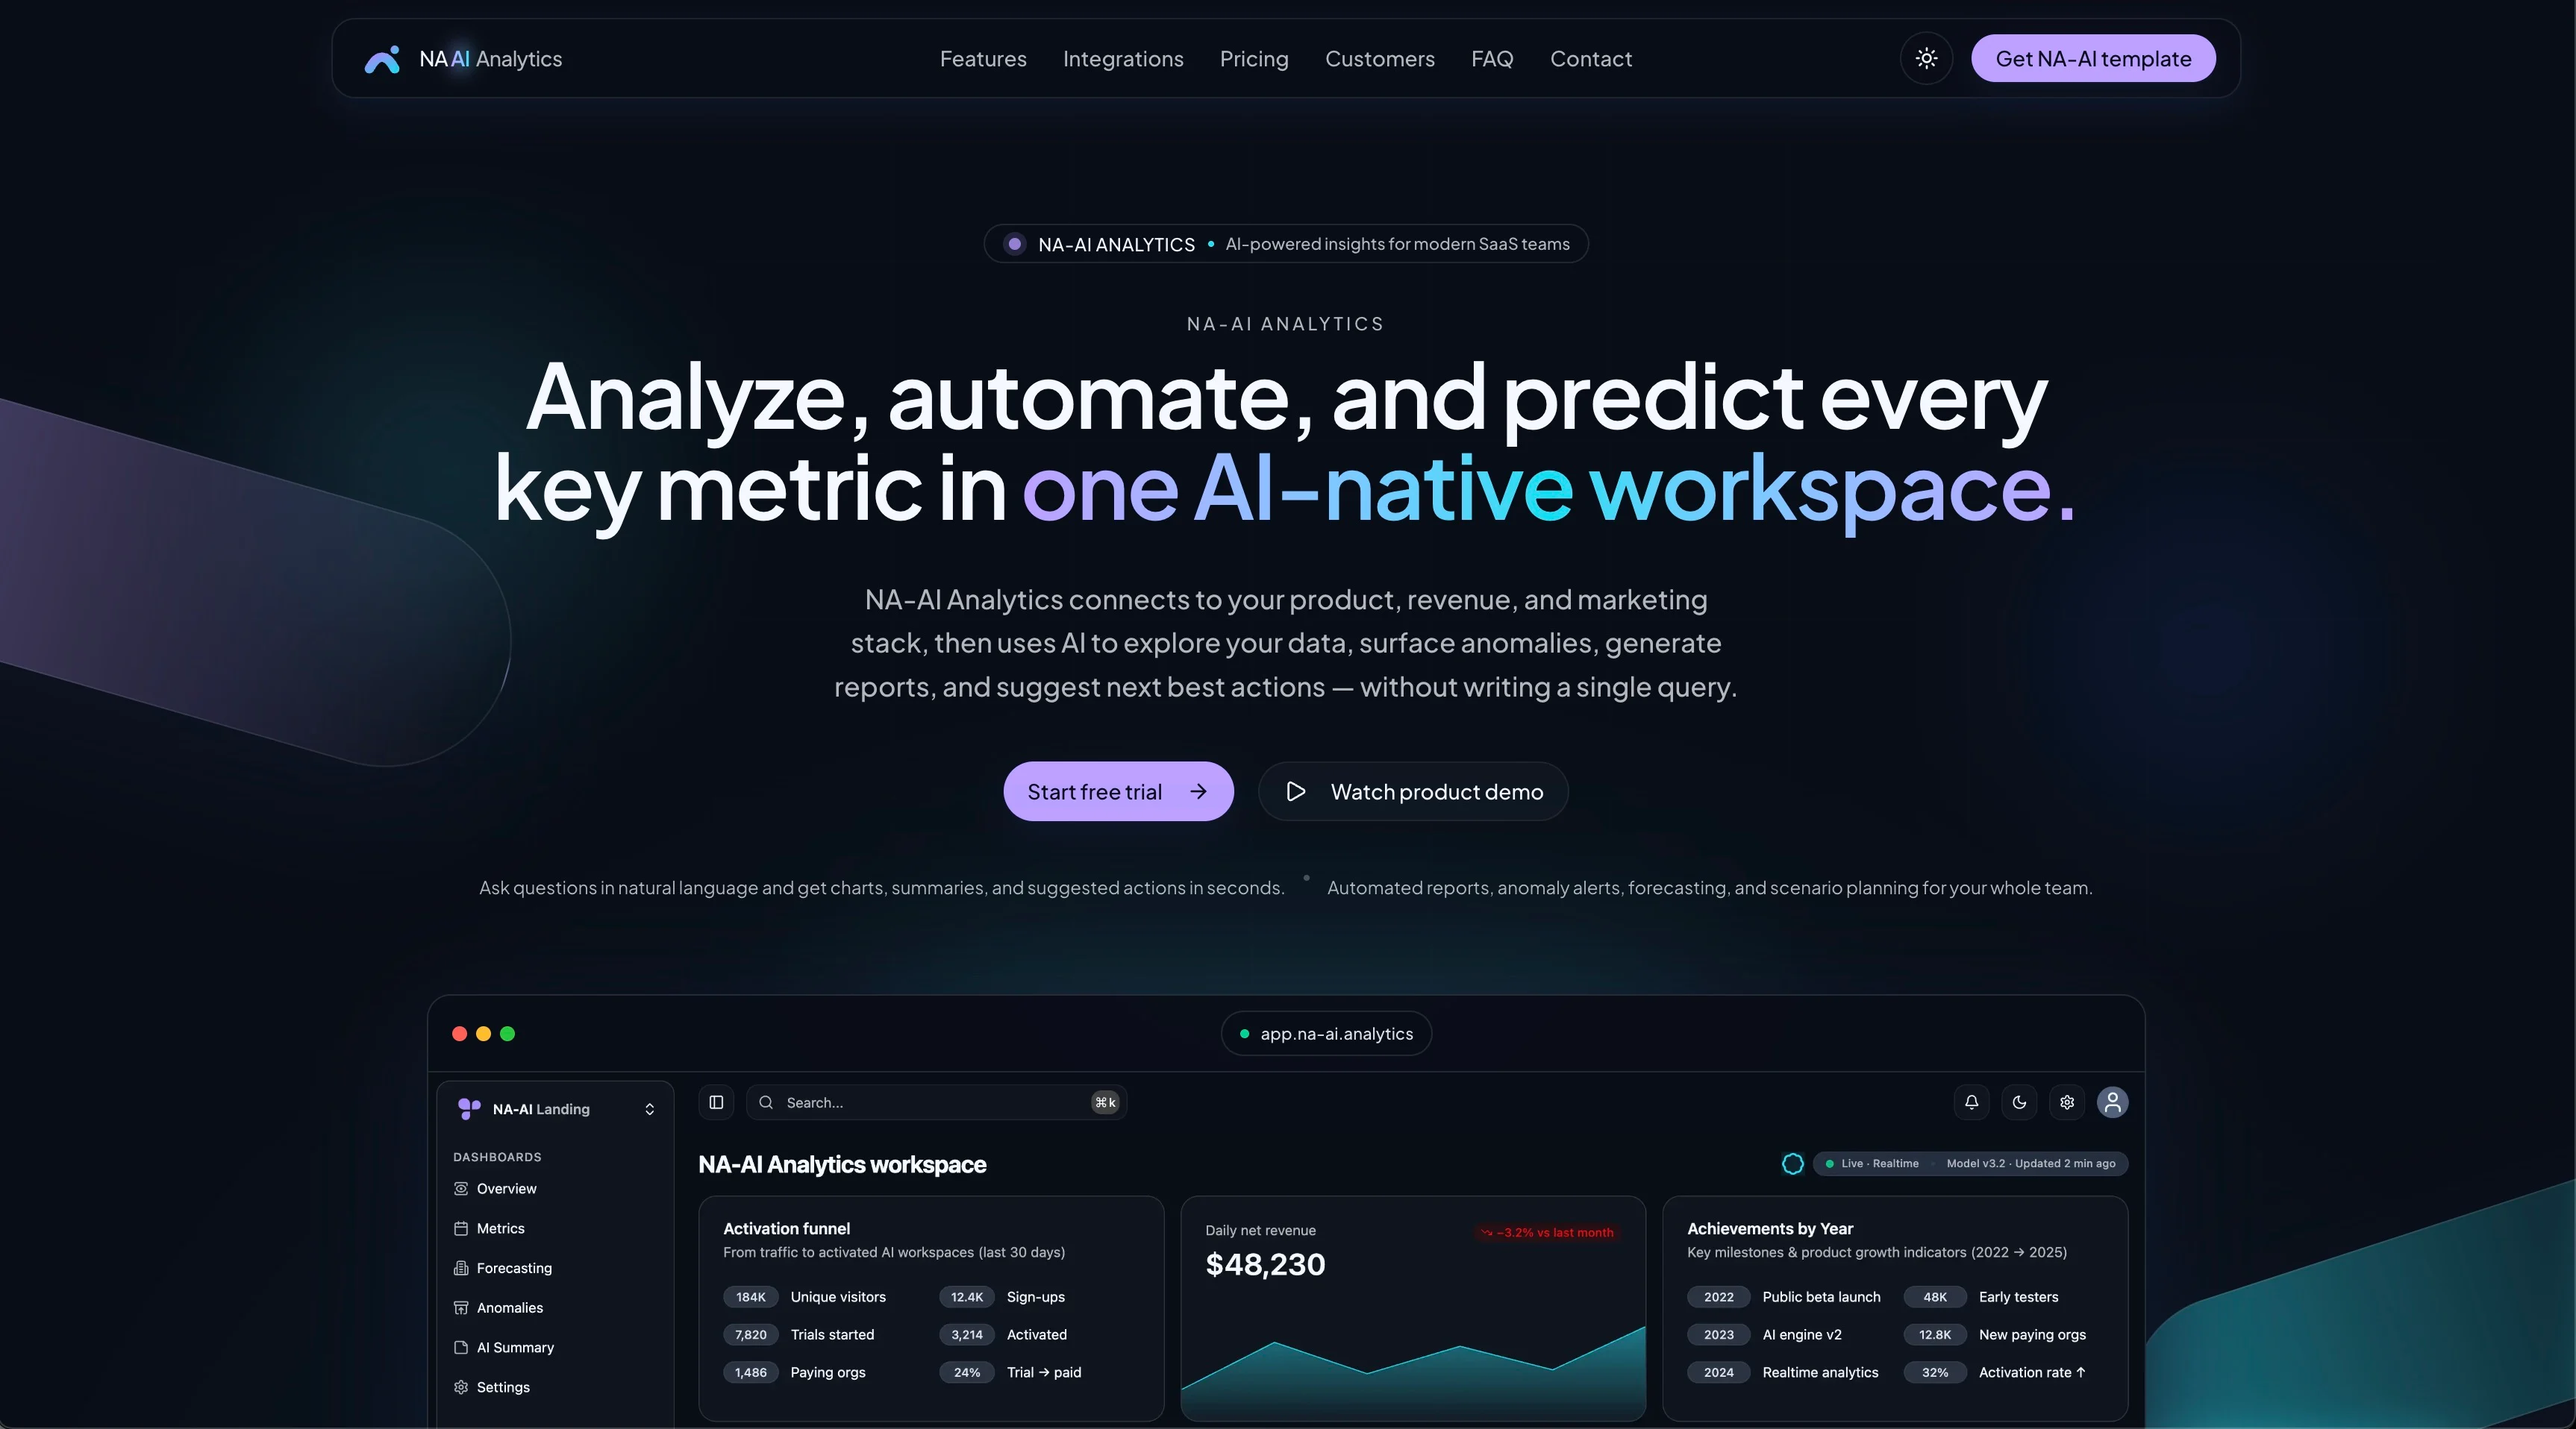
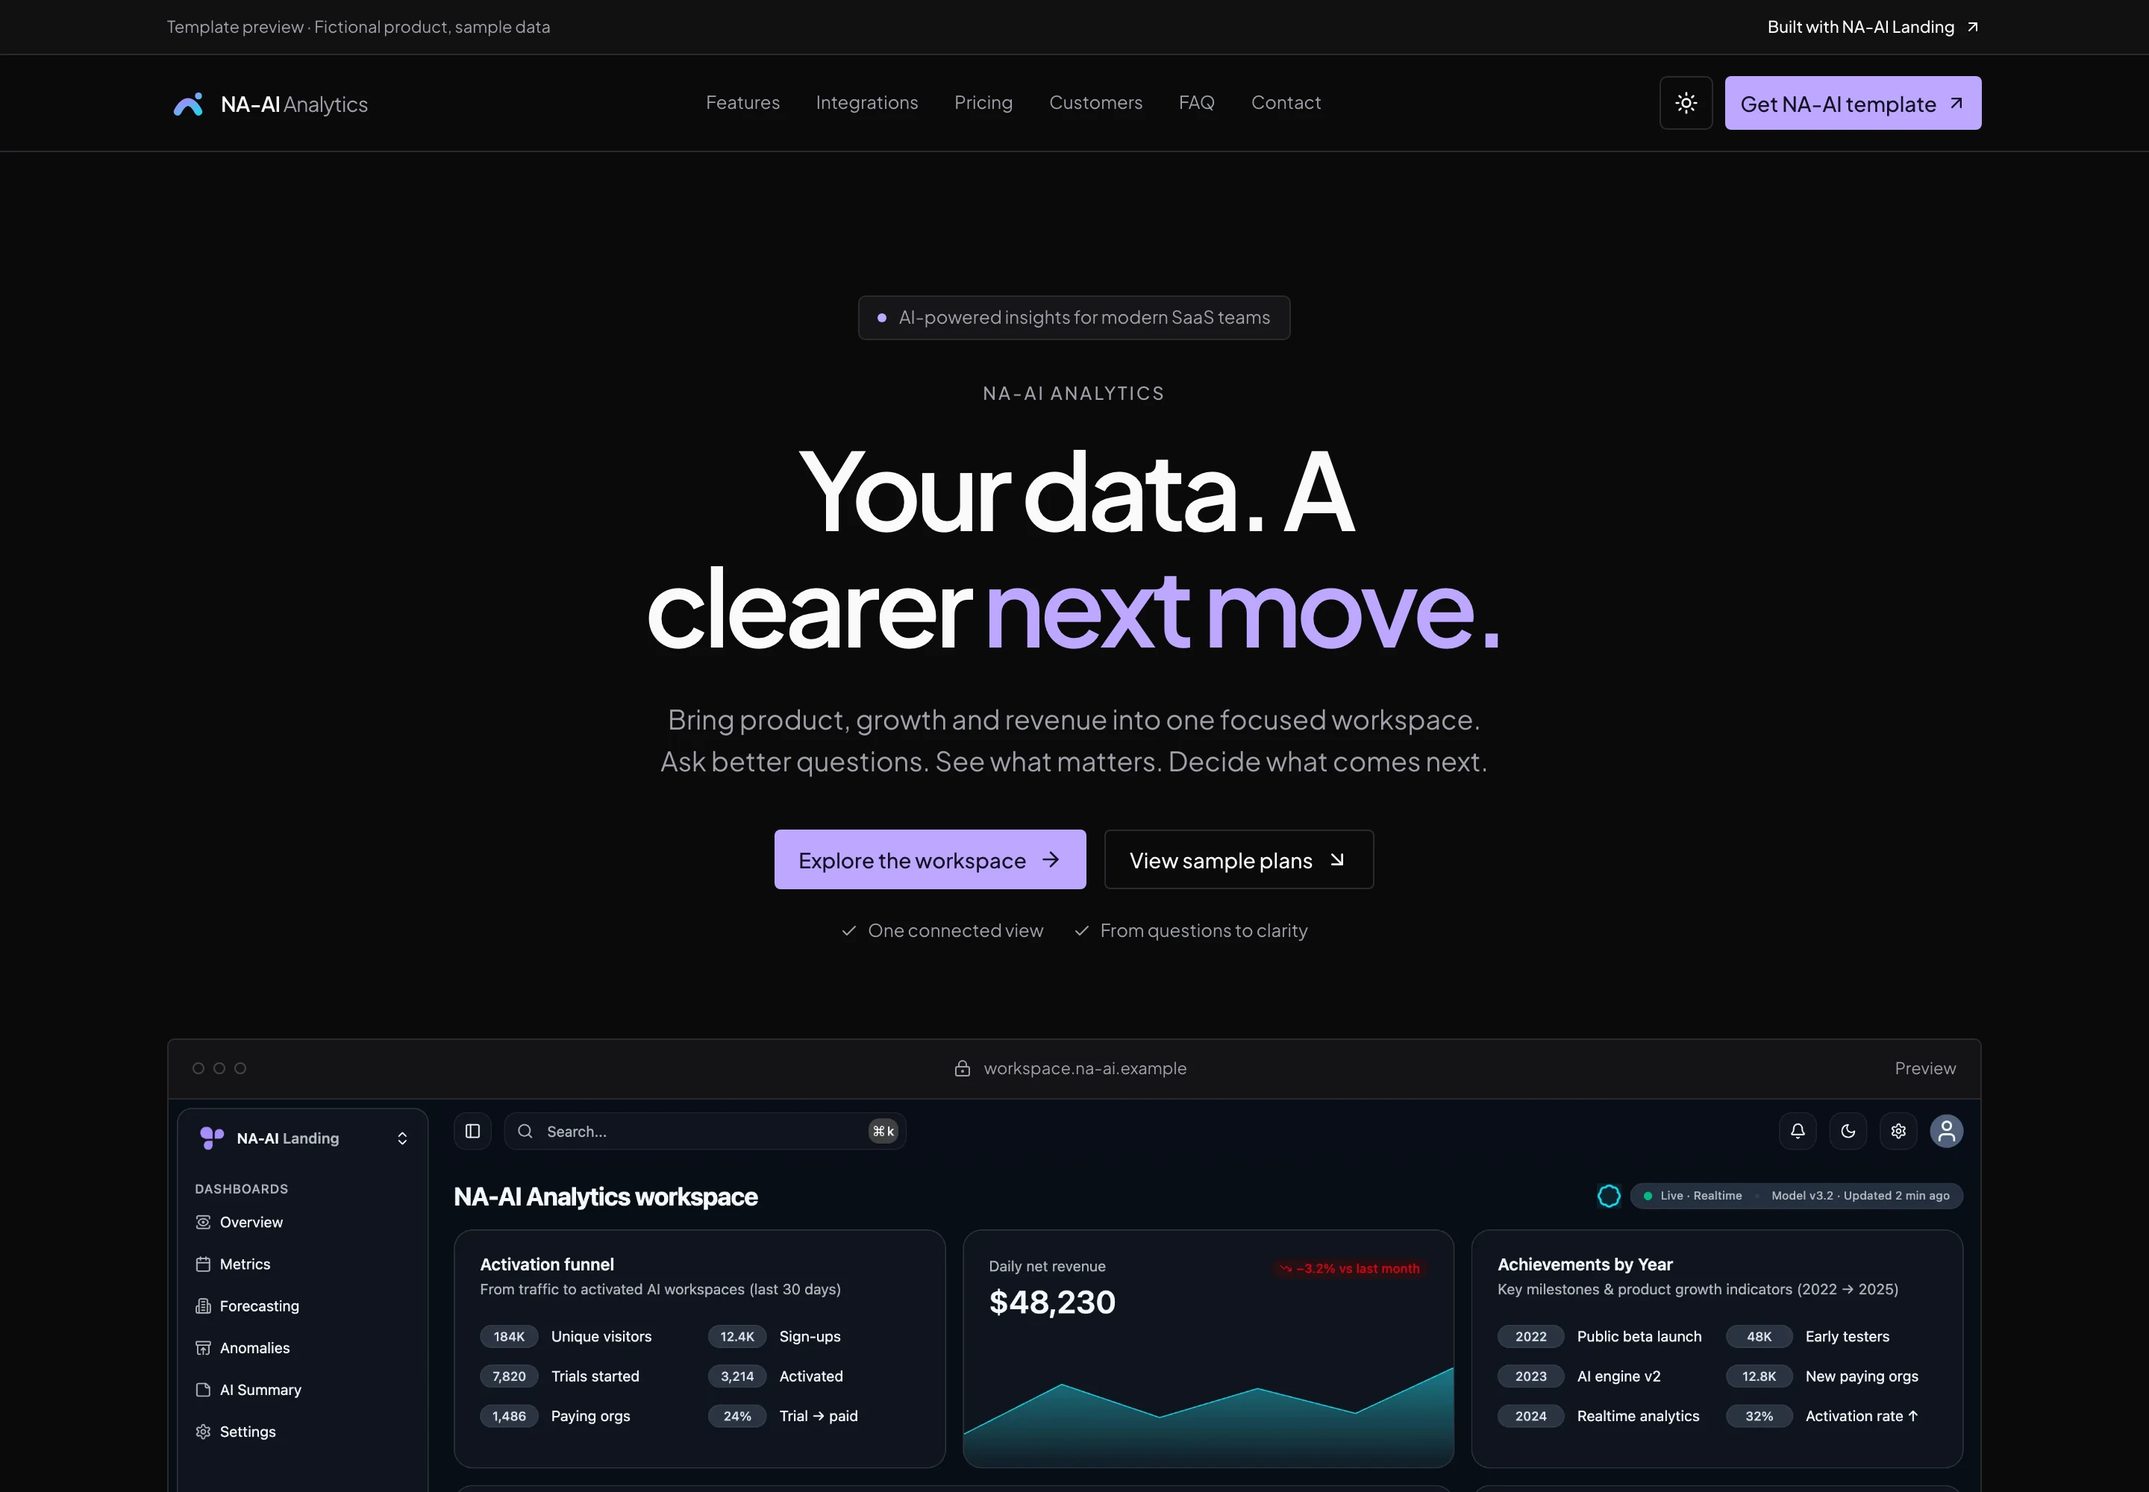
feat(na-ai): refine the premium landing experience

diff --git a/tests/marketing/template-color-preview.test.tsx b/tests/marketing/template-color-preview.test.tsx
@@ -1,0 +1,49 @@
+import { fireEvent, render, screen } from "@testing-library/react";
+import { beforeEach, describe, expect, it, vi } from "vitest";
+import { axe } from "vitest-axe";
+import { TemplateColorPreview } from "@/components/templates/template-color-preview";
+
+const appearance = vi.hoisted(() => ({ resolvedTheme: "light" }));
+vi.mock("fumadocs-ui/provider/base", () => ({ useTheme: () => appearance }));
+const previews = [
+  { mode: "dark", label: "Dark", content: <p>Dark screenshot</p> },
+  { mode: "light", label: "Light", content: <p>Light screenshot</p> },
+] as const;
+
+beforeEach(() => {
+  appearance.resolvedTheme = "light";
+});
+
+describe("Template appearance preview", () => {
+  it("follows the site theme and permits manual comparison until the theme changes", () => {
+    const { rerender } = render(<TemplateColorPreview previews={previews} />);
+    expect(screen.getByRole("tab", { name: "Light" })).toHaveAttribute(
+      "aria-selected",
+      "true",
+    );
+    fireEvent.mouseDown(screen.getByRole("tab", { name: "Dark" }), {
+      button: 0,
+      ctrlKey: false,
+    });
+    expect(screen.getByRole("tabpanel")).toHaveTextContent("Dark screenshot");
+    rerender(<TemplateColorPreview previews={previews} />);
+    expect(screen.getByRole("tabpanel")).toHaveTextContent("Dark screenshot");
+    appearance.resolvedTheme = "dark";
+    rerender(<TemplateColorPreview previews={previews} />);
+    fireEvent.mouseDown(screen.getByRole("tab", { name: "Light" }), {
+      button: 0,
+      ctrlKey: false,
+    });
+    expect(screen.getByRole("tabpanel")).toHaveTextContent("Light screenshot");
+    appearance.resolvedTheme = "light";
+    rerender(<TemplateColorPreview previews={previews} />);
+    appearance.resolvedTheme = "dark";
+    rerender(<TemplateColorPreview previews={previews} />);
+    expect(screen.getByRole("tabpanel")).toHaveTextContent("Dark screenshot");
+    expect(screen.getAllByRole("tabpanel")).toHaveLength(1);
+  });
+  it("keeps the active tab and panel accessible", async () => {
+    const { container } = render(<TemplateColorPreview previews={previews} />);
+    expect(await axe(container)).toHaveNoViolations();
+  });
+});

diff --git a/app/(site)/templates/na-ai-landing/page.tsx b/app/(site)/templates/na-ai-landing/page.tsx
@@ -106,7 +106,7 @@ const includedGroups = [
       "AI, security and revenue insight sections",
       "Analytics-style charts and product visuals",
       "Monthly/yearly pricing and comparison table",
-      "Testimonials, FAQ and frontend contact form",
+      "Sample testimonials, native FAQ and local contact demo",
     ],
   },
   {
@@ -119,7 +119,7 @@ const includedGroups = [
       "Dark and light appearances",
       "PyColors UI and shared design tokens",
       "Radix primitives and Lucide icons",
-      "Tailwind CSS v4 and Framer Motion",
+      "Finite motion with reduced-motion support",
     ],
   },
   {
@@ -408,9 +408,9 @@ export default function NaAiTemplatePage() {
                       <Image
                         src={preview.src}
                         alt={`NA-AI Landing hero and illustrative analytics preview in ${preview.mode} mode`}
-                        width={3452}
-                        height={1916}
-                        sizes="(min-width: 1280px) 1180px, 92vw"
+                        width={2880}
+                        height={2000}
+                        sizes="(min-width: 1440px) 1312px, 92vw"
                         className="h-auto w-full"
                       />
                     </a>

diff --git a/components/templates/template-color-preview.tsx b/components/templates/template-color-preview.tsx
@@ -1,6 +1,7 @@
 "use client";
 
 import type { ReactNode } from "react";
+import { useTheme } from "fumadocs-ui/provider/base";
 import { Tabs, TabsContent, TabsList, TabsTrigger } from "@pycolors/ui";
 
 type TemplateColorPreviewProps = Readonly<{
@@ -13,8 +14,25 @@ type TemplateColorPreviewProps = Readonly<{
 
 /** The page owns the screenshots; only color-mode selection runs on the client. */
 export function TemplateColorPreview({ previews }: TemplateColorPreviewProps) {
+  const { resolvedTheme } = useTheme();
   return (
-    <Tabs defaultValue="dark" className="flex h-full min-w-0 flex-col gap-0">
+    <PreviewTabs
+      key={resolvedTheme ?? "system"}
+      previews={previews}
+      defaultMode={resolvedTheme === "light" ? "light" : "dark"}
+    />
+  );
+}
+
+function PreviewTabs({
+  previews,
+  defaultMode,
+}: TemplateColorPreviewProps & { defaultMode: "light" | "dark" }) {
+  return (
+    <Tabs
+      defaultValue={defaultMode}
+      className="flex h-full min-w-0 flex-col gap-0"
+    >
       <div className="flex flex-wrap items-center justify-between gap-2 border-b border-border-subtle bg-background px-4 py-2 sm:px-6">
         <span className="text-xs font-medium text-muted-foreground">
           Template preview

diff --git a/app/(site)/templates/page.tsx b/app/(site)/templates/page.tsx
@@ -383,8 +383,8 @@ export default function TemplatesPage() {
                           <Image
                             src={preview.src}
                             alt={`NA-AI Landing hero and illustrative analytics preview in ${preview.mode} mode`}
-                            width={3452}
-                            height={1916}
+                            width={2880}
+                            height={2000}
                             sizes="(min-width: 1280px) 640px, (min-width: 1024px) 52vw, 90vw"
                             className={cn("h-auto w-full", styles.previewImage)}
                           />
